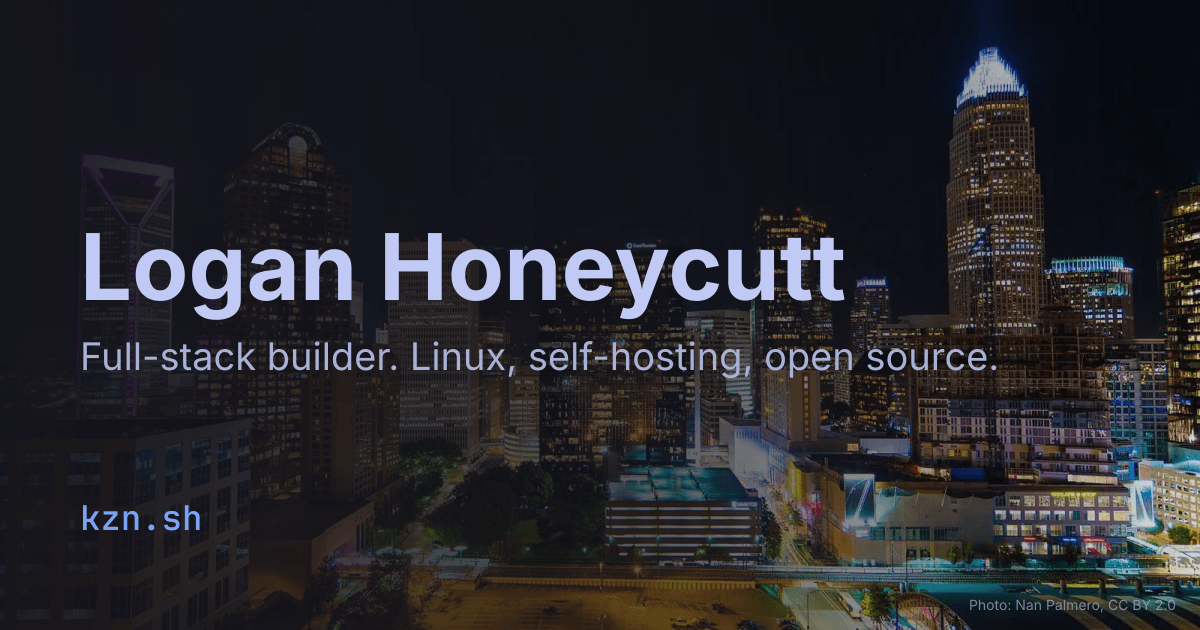
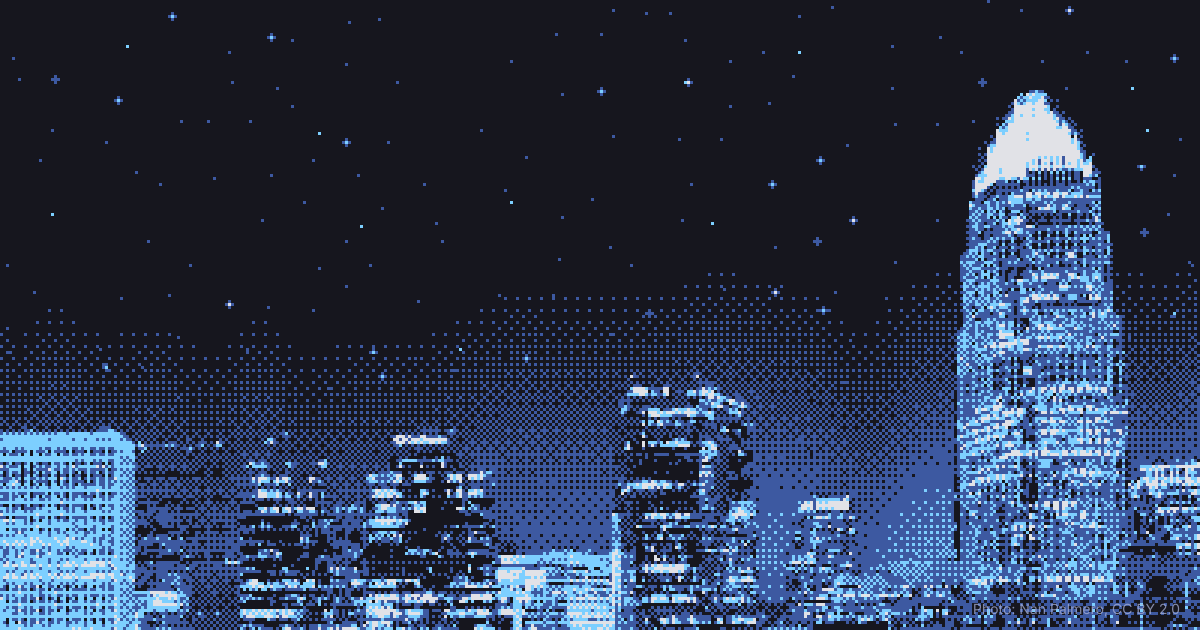
feat(seo): use the dithered skyline as the social card and drop the generic wording

diff --git a/src/app/resume/page.tsx b/src/app/resume/page.tsx
@@ -6,7 +6,7 @@ import { ResumePage } from '@/features/resume/ResumePage'
 import { resumeJsonLd } from '@/lib/structured-data'
 
 const description =
-  'Logan Honeycutt: full-stack builder. Experience, projects, skills and a PDF download.'
+  'The resume of Logan Honeycutt: experience, projects, skills and a PDF download.'
 
 export const metadata: Metadata = {
   title: 'Resume',

diff --git a/src/lib/structured-data.ts b/src/lib/structured-data.ts
@@ -17,7 +17,7 @@ const personNode = {
   alternateName: [person.alias, person.handle],
   url: site.url,
   email: person.email,
-  description: person.summary,
+  description: site.description,
   image: absolute('/opengraph-image.png'),
   address: {
     '@type': 'PostalAddress',
